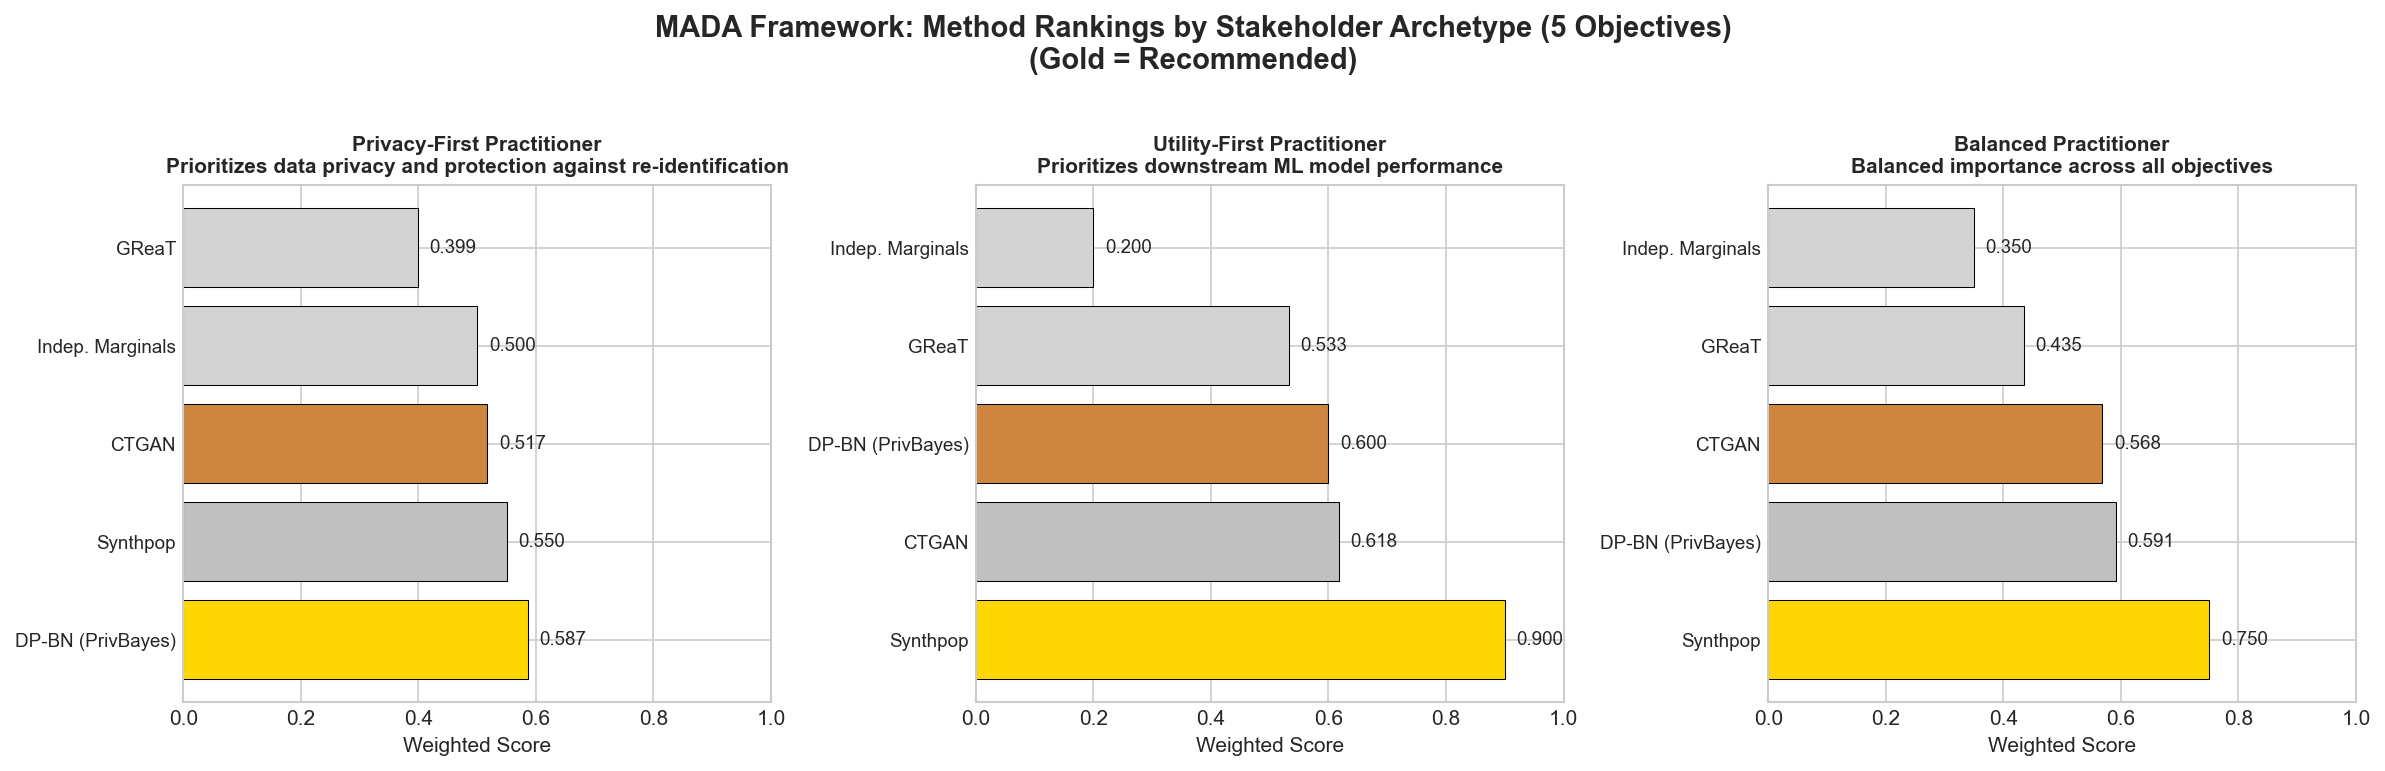
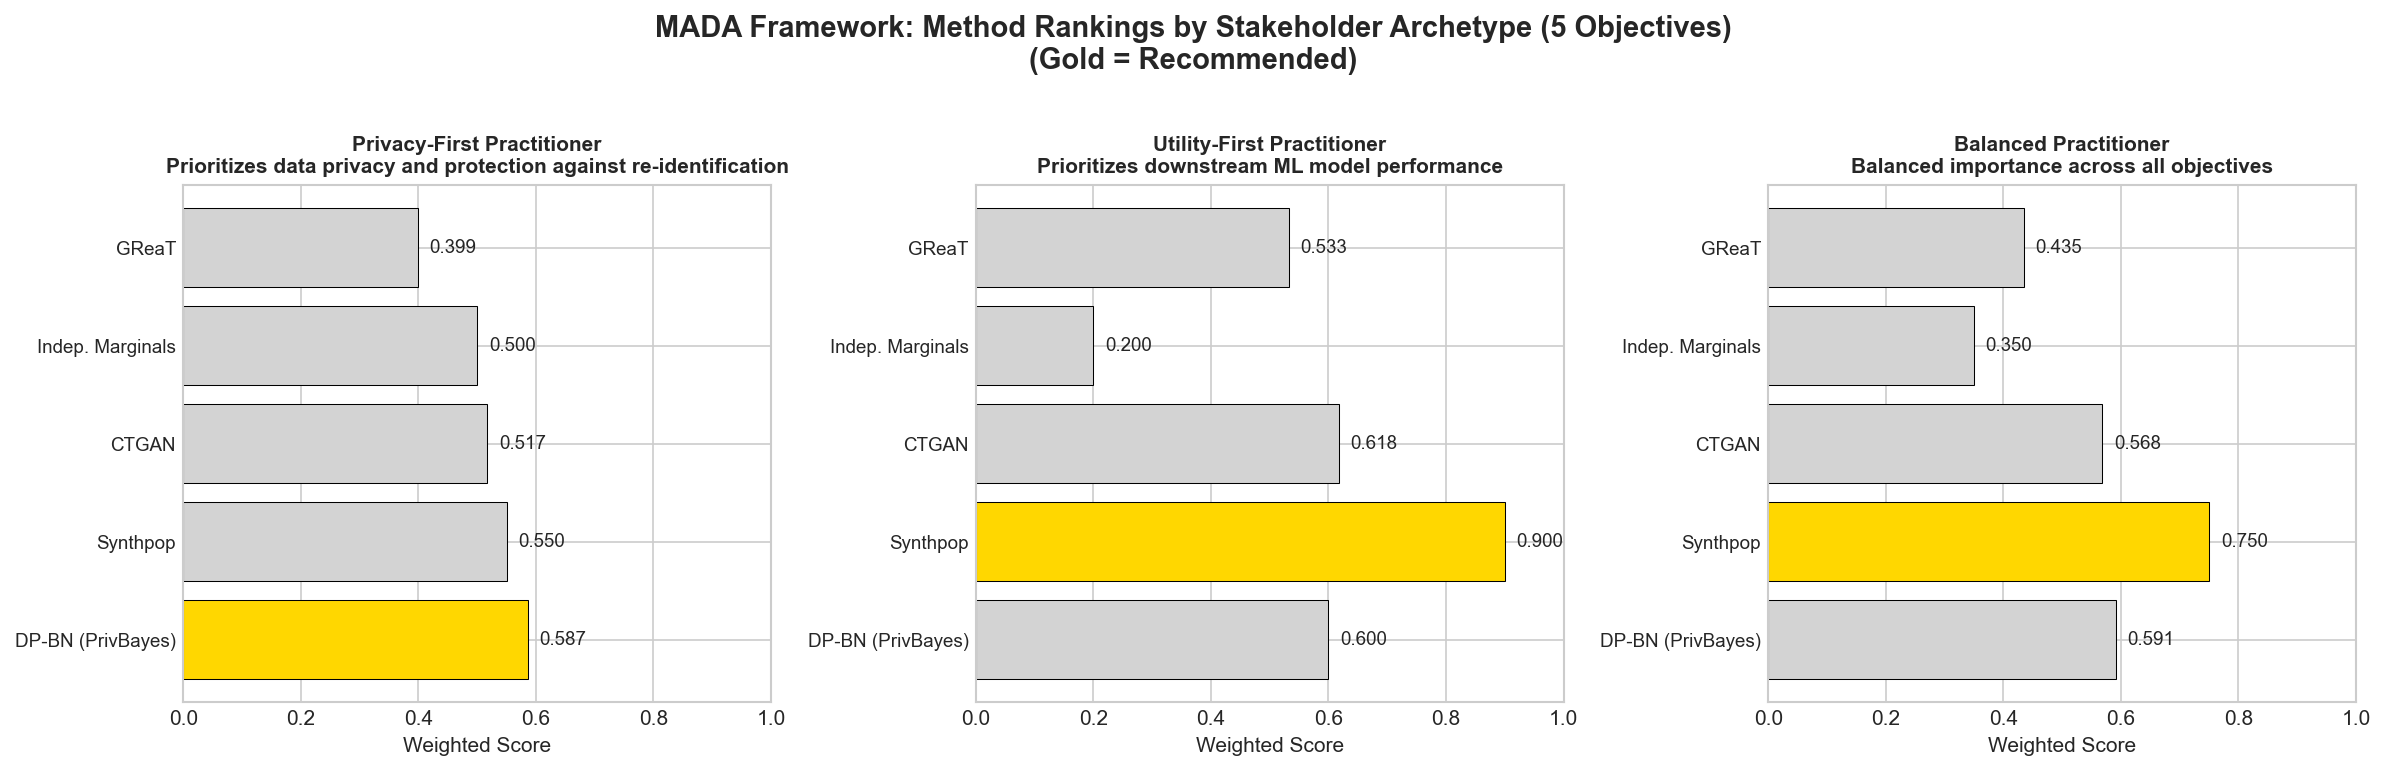
Add custom dataset support with CLI flags, config validation, and docs
- Add --sample-size, --n-synthetic, --output-dir CLI flags for flexible runs
- Add config column validation with helpful error messages
- Add annotated template.yaml for custom dataset configuration
- Add "Use with Your Own Data" README section
- Fix figure bar ordering consistency across archetype panels
- Fix fidelity_auc best-highlight direction (lower is better)

diff --git a/tsd/run_experiments.py b/tsd/run_experiments.py
@@ -163,36 +163,60 @@ def compute_all_measures(df_train, df_test, df_synth, config: DatasetConfig):
 
 def run_experiments(
     config: DatasetConfig,
-    n_samples: int,
     n_replicates: int,
     methods: list,
     skip_measures: bool = False,
+    output_dir: Path | None = None,
+    sample_size: int | None = None,
+    n_synthetic: int | None = None,
 ):
-    """Run experiments for specified methods and replicates."""
+    """Run experiments for specified methods and replicates.
+
+    Args:
+        config: Dataset configuration.
+        n_replicates: Number of replicate runs per method.
+        methods: List of method names to run.
+        skip_measures: If True, generate synthetic data but skip evaluation.
+        output_dir: Directory for results (default: results/experiments).
+        sample_size: Max rows to sample from real data (overrides config.sample_size).
+        n_synthetic: Number of synthetic rows to generate (default: match training set).
+    """
+
+    if sample_size is not None:
+        config.sample_size = sample_size
 
     print("=" * 70)
     print("SYNTHETIC DATA GENERATION EXPERIMENTS")
     print("=" * 70)
     print(f"Dataset: {config.name}")
-    print(f"N samples: {n_samples:,}")
+    if config.sample_size:
+        print(f"Sample size: {config.sample_size:,}")
     print(f"N replicates: {n_replicates}")
     print(f"Methods: {', '.join(methods)}")
     print(f"Random seeds: {RANDOM_SEEDS[:n_replicates]}")
     print("=" * 70)
 
+    # Resolve output directories
+    results_dir = output_dir if output_dir is not None else RESULTS_DIR
+    synthetic_dir = results_dir / "synthetic_data"
+    measures_dir = results_dir / "measures"
+
     # Create directories
-    SYNTHETIC_DIR.mkdir(parents=True, exist_ok=True)
-    MEASURES_DIR.mkdir(parents=True, exist_ok=True)
+    synthetic_dir.mkdir(parents=True, exist_ok=True)
+    measures_dir.mkdir(parents=True, exist_ok=True)
 
     # Load checkpoint
-    checkpoint_file = RESULTS_DIR / "checkpoint.json"
+    checkpoint_file = results_dir / "checkpoint.json"
     checkpoint = load_checkpoint(checkpoint_file)
 
     # Load data
     print("\nLoading data...")
-    config.sample_size = n_samples
     df_train, df_test = load_and_preprocess(config)
+    # Resolve synthetic data size
+    n_synth = n_synthetic if n_synthetic is not None else len(df_train)
+
     print(f"Train: {len(df_train):,}, Test: {len(df_test):,}")
+    print(f"Synthetic rows per replicate: {n_synth:,}")
 
     generators = _build_generators(config)
 
@@ -225,7 +249,7 @@ def run_experiments(
             print(f"\n[{current_run}/{total_runs}] {run_id} (seed={seed})")
 
             # Generate synthetic data
-            synth_file = SYNTHETIC_DIR / f"{run_id}.csv"
+            synth_file = synthetic_dir / f"{run_id}.csv"
 
             if synth_file.exists():
                 print(f"  Loading existing synthetic data from {synth_file}")
@@ -234,7 +258,7 @@ def run_experiments(
                 print("  Generating synthetic data...")
                 start_time = time.time()
                 try:
-                    df_synth = generators[method](df_train, len(df_train), seed)
+                    df_synth = generators[method](df_train, n_synth, seed)
                     elapsed = time.time() - start_time
                     print(f"  Generated {len(df_synth):,} records in {elapsed:.1f}s")
 
@@ -258,7 +282,7 @@ def run_experiments(
                     "method": method,
                     "replicate": rep + 1,
                     "seed": seed,
-                    "n_samples": len(df_train),
+                    "n_samples": n_synth,
                     **measures,
                     "timestamp": datetime.now().isoformat(),
                 }
@@ -282,7 +306,7 @@ def run_experiments(
     # Save final results
     if all_results:
         results_df = pd.DataFrame(all_results)
-        results_file = RESULTS_DIR / "all_results.csv"
+        results_file = results_dir / "all_results.csv"
         results_df.to_csv(results_file, index=False)
         print(f"\n{'='*70}")
         print(f"Results saved to {results_file}")
@@ -307,7 +331,7 @@ def run_experiments(
         print(summary)
 
         # Save summary
-        summary_file = RESULTS_DIR / "summary.csv"
+        summary_file = results_dir / "summary.csv"
         summary.to_csv(summary_file)
         print(f"\nSummary saved to {summary_file}")
 

diff --git a/tsd/cli.py b/tsd/cli.py
@@ -22,18 +22,26 @@ def cmd_run(args):
     config_path = args.config if args.config else default_config_path()
     config = load_config(config_path)
 
+    output_dir = Path(args.output_dir) if args.output_dir else None
+    results_dir = output_dir if output_dir is not None else RESULTS_DIR
+
     if args.reset:
-        checkpoint_file = RESULTS_DIR / "checkpoint.json"
+        checkpoint_file = results_dir / "checkpoint.json"
         if checkpoint_file.exists():
             checkpoint_file.unlink()
             print("Checkpoint reset.")
 
+    # Resolve sample size: --sample-size takes priority, --n-samples is deprecated alias
+    sample_size = args.sample_size if args.sample_size is not None else args.n_samples
+
     run_experiments(
         config=config,
-        n_samples=args.n_samples,
+        sample_size=sample_size,
         n_replicates=args.n_replicates,
         methods=args.methods,
         skip_measures=args.skip_measures,
+        output_dir=output_dir,
+        n_synthetic=args.n_synthetic,
     )
 
 
@@ -118,7 +126,24 @@ def main():
     p_run.add_argument(
         "--config", type=str, default=None, help="Dataset config YAML (default: acs_pums)"
     )
-    p_run.add_argument("--n-samples", type=int, default=35000)
+    p_run.add_argument(
+        "--sample-size",
+        type=int,
+        default=None,
+        help="Max rows to sample from real data (default: use config value or all rows)",
+    )
+    p_run.add_argument(
+        "--n-samples",
+        type=int,
+        default=None,
+        help=argparse.SUPPRESS,  # deprecated alias for --sample-size
+    )
+    p_run.add_argument(
+        "--n-synthetic",
+        type=int,
+        default=None,
+        help="Number of synthetic rows to generate (default: match training set size)",
+    )
     p_run.add_argument("--n-replicates", type=int, default=5)
     p_run.add_argument(
         "--methods",
@@ -127,6 +152,12 @@ def main():
     )
     p_run.add_argument("--skip-measures", action="store_true")
     p_run.add_argument("--reset", action="store_true")
+    p_run.add_argument(
+        "--output-dir",
+        type=str,
+        default=None,
+        help="Directory for results (default: results/experiments)",
+    )
     p_run.set_defaults(func=cmd_run)
 
     # ── tsd analyze ───────────────────────────────────────────────────────

diff --git a/tsd/analysis/figures.py b/tsd/analysis/figures.py
@@ -170,31 +170,36 @@ def generate_mada_profile_comparison(value_scores, output_dir):
 
     methods = list(value_scores.keys())
 
+    # Use a fixed method order across all panels (sorted by first archetype's score)
+    first_arch = list(ARCHETYPES.values())[0]
+    first_scores = [(m, calculate_weighted_score(value_scores, m, first_arch["weights"])) for m in methods]
+    first_scores.sort(key=lambda x: x[1], reverse=True)
+    fixed_order = [s[0] for s in first_scores]
+
     for idx, (_arch_id, arch) in enumerate(ARCHETYPES.items()):
         ax = axes[idx]
         weights = arch["weights"]
 
-        scores = [(m, calculate_weighted_score(value_scores, m, weights)) for m in methods]
-        scores.sort(key=lambda x: x[1], reverse=True)
+        score_map = {m: calculate_weighted_score(value_scores, m, weights) for m in methods}
+        scores_vals = [score_map[m] for m in fixed_order]
 
-        methods_sorted = [s[0] for s in scores]
-        scores_vals = [s[1] for s in scores]
-
+        # Highlight top scorer for this archetype
+        best_method = max(score_map, key=score_map.get)
         colors = [
-            "gold" if i == 0 else "silver" if i == 1 else "peru" if i == 2 else "lightgray"
-            for i in range(len(methods_sorted))
+            "gold" if m == best_method else "lightgray"
+            for m in fixed_order
         ]
 
         bars = ax.barh(
-            range(len(methods_sorted)),
+            range(len(fixed_order)),
             scores_vals,
             color=colors,
             edgecolor="black",
             linewidth=0.5,
         )
 
-        ax.set_yticks(range(len(methods_sorted)))
-        ax.set_yticklabels([METHOD_LABELS.get(m, m) for m in methods_sorted], fontsize=9)
+        ax.set_yticks(range(len(fixed_order)))
+        ax.set_yticklabels([METHOD_LABELS.get(m, m) for m in fixed_order], fontsize=9)
         ax.set_xlabel("Weighted Score")
         ax.set_title(f"{arch['name']}\n{arch['description']}", fontsize=10, fontweight="bold")
         ax.set_xlim(0, 1)

diff --git a/tsd/config.py b/tsd/config.py
@@ -40,6 +40,35 @@ class DatasetConfig:
         if not 0 < self.train_fraction < 1:
             raise ValueError(f"train_fraction must be in (0, 1), got {self.train_fraction}")
 
+    def validate_against_data(self, df) -> None:
+        """Check that configured columns exist in the DataFrame.
+
+        Call this after loading the CSV on the generic (non-ACS) path.
+        Raises ValueError with a helpful message listing available columns.
+        """
+        available = set(df.columns)
+
+        def _check(col_name: str, field: str):
+            if col_name not in available:
+                raise ValueError(
+                    f"Column '{col_name}' specified in {field} not found in CSV.\n"
+                    f"Available columns: {sorted(available)}"
+                )
+
+        _check(self.target_variable, "target_variable")
+        _check(self.subgroup_column, "subgroup_column")
+
+        for col in self.categorical_columns:
+            _check(col, "categorical_columns")
+        for col in self.continuous_columns:
+            _check(col, "continuous_columns")
+
+        if self.target_binarize:
+            _check(self.target_binarize["source_column"], "target_binarize.source_column")
+
+        if self.weight_column:
+            _check(self.weight_column, "weight_column")
+
 
 def load_config(path: str | Path) -> DatasetConfig:
     """Load a DatasetConfig from a YAML file."""

diff --git a/tsd/preprocessing/load_data.py b/tsd/preprocessing/load_data.py
@@ -379,8 +379,9 @@ def load_and_preprocess(config: DatasetConfig) -> tuple[pd.DataFrame, pd.DataFra
             random_state=config.random_state,
         )
 
-    # Generic path: load CSV, sample, split
+    # Generic path: load CSV, validate, sample, split
     df = pd.read_csv(config.data_path)
+    config.validate_against_data(df)
     if config.sample_size and len(df) > config.sample_size:
         df = df.sample(n=config.sample_size, random_state=config.random_state)
     return train_test_split(df, train_size=config.train_fraction, random_state=config.random_state)

diff --git a/tsd/analysis/visualizations.py b/tsd/analysis/visualizations.py
@@ -76,8 +76,8 @@ def bar_chart_comparison(df: pd.DataFrame, output_dir: Path) -> Path:
                 fontsize=8,
             )
 
-        # Highlight best
-        if metric == "fairness_gap":
+        # Highlight best (lower is better for fidelity AUC and fairness gap)
+        if metric in ("fidelity_auc", "fairness_gap"):
             best_idx = np.argmin(means)
         else:
             best_idx = np.argmax(means)

diff --git a/README.md b/README.md
@@ -100,6 +100,92 @@ print(recommendation)
 tsd verify --results results/experiments/all_results.csv
 ```
 
+## Use with Your Own Data
+
+The framework is designed for use on any tabular dataset with a binary classification task. Follow these steps to run the full pipeline on your own data.
+
+### 1. Create a Configuration File
+
+Copy the annotated template and edit it for your dataset:
+
+```bash
+cp tsd/configs/template.yaml my_dataset.yaml
+```
+
+The template documents every field. At minimum, specify:
+
+```yaml
+name: "My Dataset"
+data_path: "data/raw/my_data.csv"
+target_variable: "target"           # binary (0/1) classification column
+subgroup_column: "group"            # protected attribute for fairness
+categorical_columns: ["sex", "group", "education"]
+continuous_columns: ["age", "income"]
+preprocessing: null                 # use generic CSV loading
+```
+
+If your target variable is continuous, derive a binary column with `target_binarize`:
+
+```yaml
+target_binarize:
+  source_column: "income"
+  threshold: 50000
+```
+
+Column names are validated at runtime. If a name is misspelled or missing, the error message lists all available columns.
+
+### 2. Run Experiments
+
+Generate synthetic data and compute evaluation metrics:
+
+```bash
+tsd run --config my_dataset.yaml --output-dir results/my_dataset
+```
+
+Optional flags:
+
+| Flag | Purpose | Default |
+|------|---------|---------|
+| `--sample-size N` | Subsample N rows from your CSV | All rows |
+| `--n-synthetic N` | Number of synthetic rows to generate | Match training set |
+| `--n-replicates N` | Number of independent replicates | 5 |
+| `--methods m1 m2` | Subset of methods to run | All five |
+
+### 3. Analyze Results
+
+Run the MADA analysis and generate figures:
+
+```bash
+tsd analyze --results results/my_dataset/all_results.csv \
+            --output-dir results/my_dataset/figures \
+            --value-refs auto
+```
+
+The `--value-refs auto` flag derives value function reference points from your data's observed performance range, rather than using the ACS PUMS defaults from the paper.
+
+### 4. Get a Recommendation
+
+```bash
+tsd recommend --results results/my_dataset/all_results.csv --profile balanced
+```
+
+Available profiles: `privacy_first`, `utility_first`, `balanced`. For custom weights:
+
+```bash
+tsd recommend --results results/my_dataset/all_results.csv \
+  --weights '{"fidelity": 0.2, "privacy": 0.3, "utility": 0.3, "fairness": 0.1, "efficiency": 0.1}'
+```
+
+### 5. Verify and Interpret
+
+Check internal consistency of results:
+
+```bash
+tsd verify --results results/my_dataset/all_results.csv
+```
+
+Review the generated figures in `results/my_dataset/figures/` for tradeoff analysis, sensitivity plots, and stakeholder-specific recommendations.
+
 ## Methods Evaluated
 
 *Raw metric means across 5 replicates. Fidelity AUC: closer to 0.5 = better. Privacy DCR: higher = better. Utility TSTR: higher = better. Fairness Gap: lower = better.*
